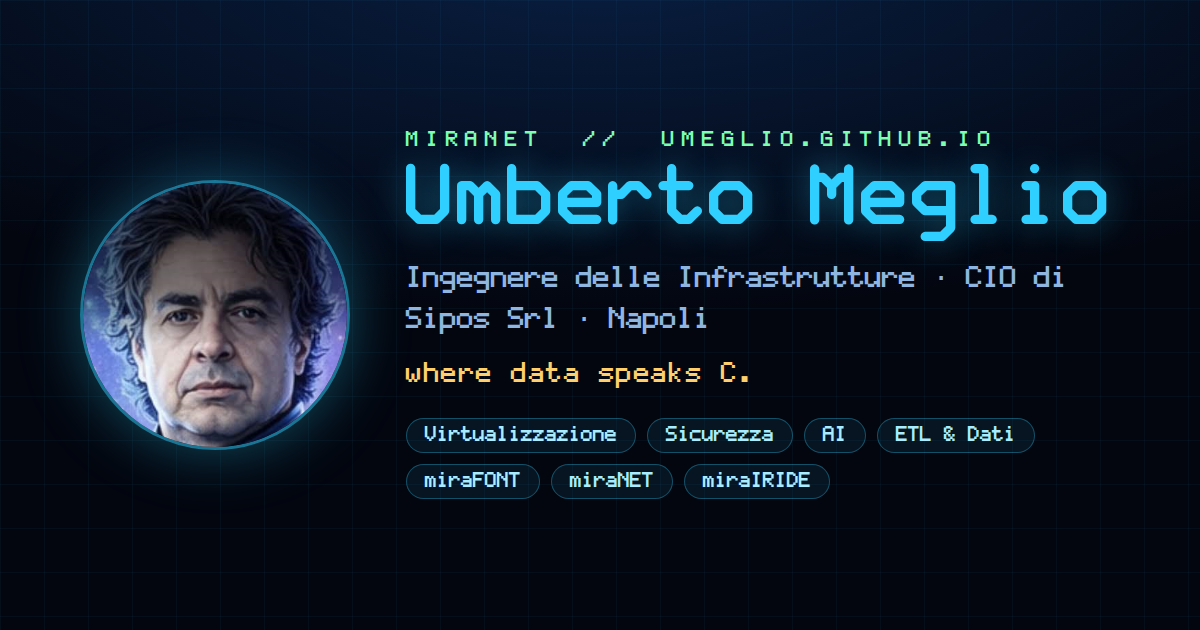
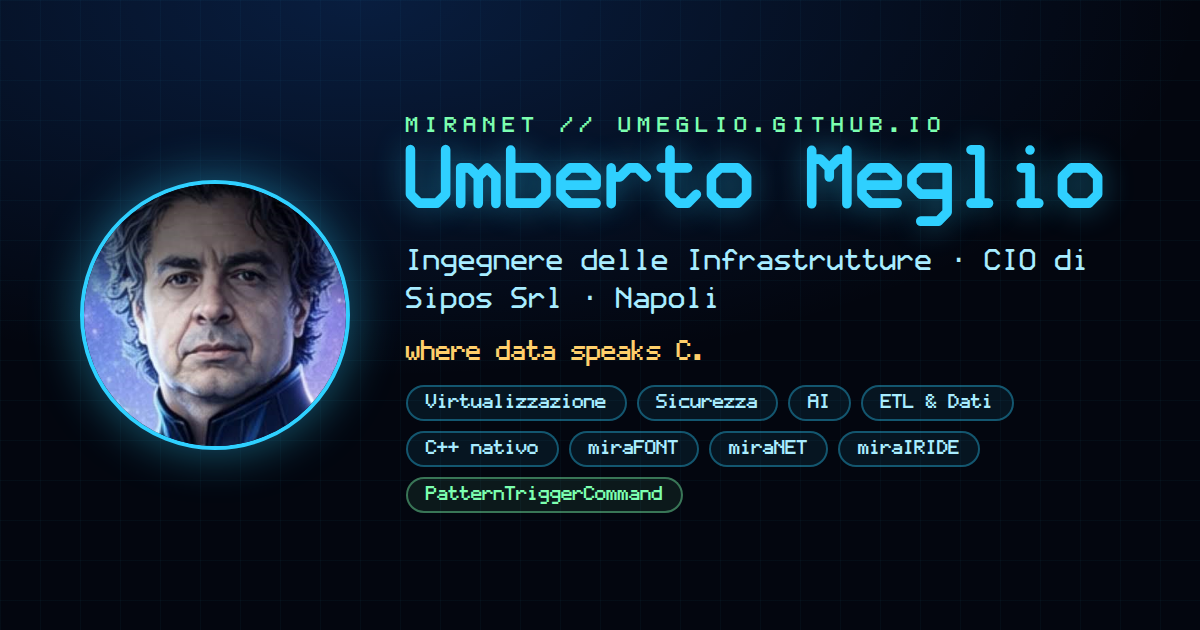
PatternTriggerCommand: badge Sito, tag C++ nativo, copertina e documentazione
- Scheda PatternTriggerCommand in index.html e index_en.html: display
  OLED, descrizione aggiornata (v3.1), tag "C++ nativo / Win32 API /
  Zero dipendenze" e link "Sito ->" alla pagina dedicata, come per
  Monet_OleDB; JSON-LD con url del progetto.
- Competenze: nuova voce "C++ nativo / Win32 API".
- og-image.png rigenerata con i chip "C++ nativo" e
  "PatternTriggerCommand".
- README.md / README_en.md: sezione dei progetti con pagina dedicata;
  docs UTILIZZO.md / USAGE.md: scheda progetto aggiornata e regole
  per le pagine bilingui; sitemap con date aggiornate.

Claude-Session: https://claude.ai/code/session_019nnJt19A3zJXvW7a49t5Mc

diff --git a/index.html b/index.html
@@ -1431,7 +1431,7 @@
           "@type": "SoftwareSourceCode",
           "@id": "https://github.com/umeglio/PatternTriggerCommand#project",
           "name": "PatternTriggerCommand",
-          "description": "Servizio Windows in C++ che sorveglia cartelle e file e scatena comandi sulla base di pattern configurabili.",
+          "description": "Servizio Windows in C++ nativo che sorveglia cartelle con ReadDirectoryChangesW, riconosce i file con pattern regex ed esegue comandi; schedulatore parametrico, dashboard web con statistiche in miraFONT e impostazioni applicabili a caldo.",
           "codeRepository": "https://github.com/umeglio/PatternTriggerCommand",
           "author": {
             "@id": "https://umeglio.github.io/#umberto-meglio"
@@ -1439,7 +1439,8 @@
           "isPartOf": {
             "@id": "https://umeglio.github.io/#webpage"
           },
-          "programmingLanguage": "C++"
+          "programmingLanguage": "C++",
+          "url": "https://umeglio.github.io/PatternTriggerCommand/"
         },
         {
           "@type": "SoftwareSourceCode",
@@ -1644,6 +1645,7 @@
                     <div class="skill-item"><div class="skill-name"><span>Visual FoxPro</span><span>95%</span></div><div class="skill-bar"><div class="skill-progress" style="width: 95%;"></div></div></div>
                     <div class="skill-item"><div class="skill-name"><span>Delphi</span><span>85%</span></div><div class="skill-bar"><div class="skill-progress" style="width: 85%;"></div></div></div>
                     <div class="skill-item"><div class="skill-name"><span>C++ / wxWidgets</span><span>90%</span></div><div class="skill-bar"><div class="skill-progress" style="width: 90%;"></div></div></div>
+                    <div class="skill-item"><div class="skill-name"><span>C++ nativo / Win32 API</span><span>90%</span></div><div class="skill-bar"><div class="skill-progress" style="width: 90%;"></div></div></div>
                     <div class="skill-item"><div class="skill-name"><span>ETL (Extract, Transform, Load)</span><span>90%</span></div><div class="skill-bar"><div class="skill-progress" style="width: 90%;"></div></div></div>
                 </div>
                 <div class="skill-category card">
@@ -1832,18 +1834,23 @@
                 <div class="project-card card">
                     <div class="project-header">
                         <h3>PatternTriggerCommand</h3>
-                        <span class="project-type">Servizio Windows &middot; C++</span>
+                        <span class="project-type">Servizio Windows &middot; C++ nativo</span>
                     </div>
                     <div class="project-info">
-                        <p>Servizio Windows enterprise-grade per l'automazione di workflow basati su file. Monitora cartelle multiple, rileva file tramite pattern regex ed esegue automaticamente comandi personalizzati. Include web dashboard.</p>
+                        <div class="oled cyan"><span class="led"></span><span class="oled-view"><span class="oled-track">WATCH C:\INVOICES :: MATCH ^INVOICE.*\.PDF$ :: RUN PROCESS_INVOICE.BAT :: EXIT 0 :: DASHBOARD :8080 :: 3 TASKS SCHEDULED :: &nbsp;WATCH C:\INVOICES :: MATCH ^INVOICE.*\.PDF$ :: RUN PROCESS_INVOICE.BAT :: EXIT 0 :: DASHBOARD :8080 :: 3 TASKS SCHEDULED :: &nbsp;</span></span></div>
+                        <p>Servizio Windows in C++ nativo per l'automazione dei workflow basati su file: sorveglia pi&ugrave; cartelle con ReadDirectoryChangesW, riconosce i file con pattern regex ed esegue i comandi associati. Schedulatore parametrico, dashboard web con statistiche composta in miraFONT e impostazioni applicabili a caldo, in un unico eseguibile senza dipendenze.</p>
                         <div class="project-tags">
-                            <span class="tag">C++</span>
-                            <span class="tag">Automazione</span>
+                            <span class="tag">C++ nativo</span>
+                            <span class="tag">Win32 API</span>
+                            <span class="tag">Zero dipendenze</span>
                             <span class="tag">Regex</span>
+                            <span class="tag">Schedulatore</span>
                             <span class="tag">Web Dashboard</span>
                         </div>
                         <div class="project-links">
                             <a href="https://github.com/umeglio/PatternTriggerCommand" target="_blank">GitHub &rarr;</a>
+                            &nbsp;&nbsp;
+                            <a href="https://umeglio.github.io/PatternTriggerCommand/" target="_blank">Sito &rarr;</a>
                         </div>
                     </div>
                 </div>

diff --git a/index_en.html b/index_en.html
@@ -1431,7 +1431,7 @@
           "@type": "SoftwareSourceCode",
           "@id": "https://github.com/umeglio/PatternTriggerCommand#project",
           "name": "PatternTriggerCommand",
-          "description": "A Windows service in C++ that watches folders and files and triggers commands based on configurable patterns.",
+          "description": "Native C++ Windows service that watches folders with ReadDirectoryChangesW, recognises files with regex patterns and runs commands; parametric scheduler, web dashboard with statistics set in miraFONT and hot-reloadable settings.",
           "codeRepository": "https://github.com/umeglio/PatternTriggerCommand",
           "author": {
             "@id": "https://umeglio.github.io/#umberto-meglio"
@@ -1439,7 +1439,8 @@
           "isPartOf": {
             "@id": "https://umeglio.github.io/index_en.html#webpage"
           },
-          "programmingLanguage": "C++"
+          "programmingLanguage": "C++",
+          "url": "https://umeglio.github.io/PatternTriggerCommand/"
         },
         {
           "@type": "SoftwareSourceCode",
@@ -1644,6 +1645,7 @@
                     <div class="skill-item"><div class="skill-name"><span>Visual FoxPro</span><span>95%</span></div><div class="skill-bar"><div class="skill-progress" style="width: 95%;"></div></div></div>
                     <div class="skill-item"><div class="skill-name"><span>Delphi</span><span>85%</span></div><div class="skill-bar"><div class="skill-progress" style="width: 85%;"></div></div></div>
                     <div class="skill-item"><div class="skill-name"><span>C++ / wxWidgets</span><span>90%</span></div><div class="skill-bar"><div class="skill-progress" style="width: 90%;"></div></div></div>
+                    <div class="skill-item"><div class="skill-name"><span>Native C++ / Win32 API</span><span>90%</span></div><div class="skill-bar"><div class="skill-progress" style="width: 90%;"></div></div></div>
                     <div class="skill-item"><div class="skill-name"><span>ETL (Extract, Transform, Load)</span><span>90%</span></div><div class="skill-bar"><div class="skill-progress" style="width: 90%;"></div></div></div>
                 </div>
                 <div class="skill-category card">
@@ -1832,18 +1834,23 @@
                 <div class="project-card card">
                     <div class="project-header">
                         <h3>PatternTriggerCommand</h3>
-                        <span class="project-type">Windows Service &middot; C++</span>
+                        <span class="project-type">Windows Service &middot; Native C++</span>
                     </div>
                     <div class="project-info">
-                        <p>Enterprise-grade Windows service for file-based workflow automation. Monitors multiple folders, detects files via regex patterns and automatically executes custom commands. Includes web dashboard.</p>
+                        <div class="oled cyan"><span class="led"></span><span class="oled-view"><span class="oled-track">WATCH C:\INVOICES :: MATCH ^INVOICE.*\.PDF$ :: RUN PROCESS_INVOICE.BAT :: EXIT 0 :: DASHBOARD :8080 :: 3 TASKS SCHEDULED :: &nbsp;WATCH C:\INVOICES :: MATCH ^INVOICE.*\.PDF$ :: RUN PROCESS_INVOICE.BAT :: EXIT 0 :: DASHBOARD :8080 :: 3 TASKS SCHEDULED :: &nbsp;</span></span></div>
+                        <p>Native C++ Windows service for file-driven workflow automation: watches multiple folders with ReadDirectoryChangesW, recognises files with regex patterns and runs the associated commands. Parametric scheduler, web dashboard with statistics set in miraFONT and hot-reloadable settings, in a single dependency-free executable.</p>
                         <div class="project-tags">
-                            <span class="tag">C++</span>
-                            <span class="tag">Automation</span>
+                            <span class="tag">Native C++</span>
+                            <span class="tag">Win32 API</span>
+                            <span class="tag">Zero dependencies</span>
                             <span class="tag">Regex</span>
+                            <span class="tag">Scheduler</span>
                             <span class="tag">Web Dashboard</span>
                         </div>
                         <div class="project-links">
                             <a href="https://github.com/umeglio/PatternTriggerCommand" target="_blank">GitHub &rarr;</a>
+                            &nbsp;&nbsp;
+                            <a href="https://umeglio.github.io/PatternTriggerCommand/" target="_blank">Website &rarr;</a>
                         </div>
                     </div>
                 </div>

diff --git a/README.md b/README.md
@@ -38,7 +38,7 @@ Il sito è organizzato nelle seguenti sezioni:
 2. **Chi Sono**: Breve biografia professionale e informazioni personali
 3. **Competenze**: Visualizzazione delle competenze tecniche con barre di progresso
 4. **Esperienza**: Timeline delle esperienze professionali
-5. **Progetti**: Showcase dei principali progetti realizzati
+5. **Progetti**: Showcase dei principali progetti realizzati, ciascuno con il link a GitHub e, quando esiste, alla pagina dedicata
 6. **Pubblicazioni**: I lavori depositati su Zenodo con DOI citabile
 7. **miraFONT**: Il carattere tipografico originale che compone il sito
 8. **Contatti**: Informazioni di contatto e modulo per comunicazioni
@@ -69,6 +69,17 @@ Per modifiche locali e sviluppo, consulta la [Guida di Utilizzo](docs/it/UTILIZZ
 ## Contributi
 
 I contributi sono benvenuti! Per dettagli, consulta [CONTRIBUIRE.md](docs/it/CONTRIBUIRE.md).
+
+## Progetti con pagina dedicata
+
+Alcuni progetti hanno una pagina propria, pubblicata da GitHub Pages dal repository del progetto (cartella `docs/`) e richiamata dal badge **Sito &rarr;** nella sezione *Progetti*. Le pagine condividono la grafica del sito (tema miraNET e miraFONT) e scelgono italiano o inglese dalla lingua del browser, ricordando la scelta del visitatore.
+
+| Progetto | Pagina | Documentazione |
+| --- | --- | --- |
+| **PatternTriggerCommand** — servizio Windows in C++ nativo per l'automazione guidata dai file | [umeglio.github.io/PatternTriggerCommand](https://umeglio.github.io/PatternTriggerCommand/) | [README.it.md](https://github.com/umeglio/PatternTriggerCommand/blob/main/README.it.md) &middot; [README.md](https://github.com/umeglio/PatternTriggerCommand/blob/main/README.md) |
+| **Monet_OleDB** — provider OLE DB in ANSI C tra SQL Server e MonetDB | [umeglio.github.io/Monet_OleDB](https://umeglio.github.io/Monet_OleDB/) | [README.it.md](https://github.com/umeglio/Monet_OleDB/blob/main/README.it.md) &middot; [README.md](https://github.com/umeglio/Monet_OleDB/blob/main/README.md) |
+| **FTP Sync Service** — servizio Windows in C++ per la sincronizzazione con server FTP | [umeglio.github.io/ftp-sync-service](https://umeglio.github.io/ftp-sync-service/) | [README](https://github.com/umeglio/ftp-sync-service) |
+| **decibel.js** — fonometro dal browser | [umeglio.github.io/decibel.js](https://umeglio.github.io/decibel.js/) | [README](https://github.com/umeglio/decibel.js) |
 
 ## Pubblicazioni
 

diff --git a/README_en.md b/README_en.md
@@ -39,7 +39,7 @@ The website is organized in the following sections:
 2. **About Me**: Brief professional biography and personal information
 3. **Skills**: Display of technical skills with progress bars
 4. **Experience**: Timeline of professional experiences
-5. **Projects**: Showcase of main completed projects
+5. **Projects**: Showcase of main completed projects, each linking to GitHub and, where available, to its dedicated page
 6. **Publications**: The works deposited on Zenodo with a citable DOI
 7. **miraFONT**: The original typeface the whole site is set in
 8. **Contact**: Contact information and messaging form
@@ -70,6 +70,17 @@ For local modifications and development, see the [Usage Guide](docs/en/USAGE.md)
 ## Contributing
 
 Contributions are welcome! For details, see [CONTRIBUTING.md](docs/en/CONTRIBUTING.md).
+
+## Projects with a dedicated page
+
+Some projects have their own page, published by GitHub Pages from the project repository (`docs/` folder) and linked by the **Website &rarr;** badge in the *Projects* section. The pages share the site's look (miraNET theme and miraFONT) and pick Italian or English from the browser language, remembering the visitor's choice.
+
+| Project | Page | Documentation |
+| --- | --- | --- |
+| **PatternTriggerCommand** — native C++ Windows service for file-driven automation | [umeglio.github.io/PatternTriggerCommand](https://umeglio.github.io/PatternTriggerCommand/) | [README.md](https://github.com/umeglio/PatternTriggerCommand/blob/main/README.md) &middot; [README.it.md](https://github.com/umeglio/PatternTriggerCommand/blob/main/README.it.md) |
+| **Monet_OleDB** — ANSI C OLE DB provider between SQL Server and MonetDB | [umeglio.github.io/Monet_OleDB](https://umeglio.github.io/Monet_OleDB/) | [README.md](https://github.com/umeglio/Monet_OleDB/blob/main/README.md) &middot; [README.it.md](https://github.com/umeglio/Monet_OleDB/blob/main/README.it.md) |
+| **FTP Sync Service** — C++ Windows service for FTP synchronisation | [umeglio.github.io/ftp-sync-service](https://umeglio.github.io/ftp-sync-service/) | [README](https://github.com/umeglio/ftp-sync-service) |
+| **decibel.js** — sound level meter in the browser | [umeglio.github.io/decibel.js](https://umeglio.github.io/decibel.js/) | [README](https://github.com/umeglio/decibel.js) |
 
 ## Publications
 

diff --git a/docs/it/UTILIZZO.md b/docs/it/UTILIZZO.md
@@ -58,12 +58,24 @@ La timeline dell'esperienza si trova nella sezione `#experience`. Aggiungi nuove
 #### 5. Progetti
 I progetti sono visualizzati nella sezione `#projects`. Per aggiungere un nuovo progetto:
 ```html
-<div class="project-card">
-    <h3>Nome Progetto</h3>
-    <p>Descrizione del progetto</p>
-    <a href="link-al-progetto" class="project-link">Vedi Progetto</a>
+<div class="project-card card">
+    <div class="project-header">
+        <h3>Nome Progetto</h3>
+        <span class="project-type">Tipo &middot; Linguaggio</span>
+    </div>
+    <div class="project-info">
+        <p>Descrizione del progetto</p>
+        <div class="project-tags"><span class="tag">C++ nativo</span></div>
+        <div class="project-links">
+            <a href="https://github.com/umeglio/NomeProgetto" target="_blank">GitHub &rarr;</a>
+            &nbsp;&nbsp;
+            <a href="https://umeglio.github.io/NomeProgetto/" target="_blank">Sito &rarr;</a>
+        </div>
+    </div>
 </div>
 ```
+
+Il link **Sito &rarr;** punta alla pagina dedicata del progetto, pubblicata da GitHub Pages dal repository del progetto stesso (cartella `docs/`, sorgente "GitHub Actions"), come per Monet_OleDB e PatternTriggerCommand. Le pagine usano lo stesso tema miraNET e miraFONT del sito e sono bilingui: i testi sono duplicati in `<span class="en">` e `<span class="it">`, la lingua viene scelta dal browser (`navigator.language`) e la preferenza del visitatore e' salvata in `localStorage`. Ricordarsi di aggiornare anche `index_en.html` (con **Website &rarr;**) e il blocco JSON-LD (`"url"` del progetto).
 
 #### 6. Informazioni di Contatto
 Modifica la sezione `#contact` per aggiornare i tuoi dettagli di contatto.

diff --git a/docs/en/USAGE.md b/docs/en/USAGE.md
@@ -58,12 +58,24 @@ The experience timeline is in the `#experience` section. Add new entries in this
 #### 5. Projects
 Projects are displayed in the `#projects` section. To add a new project:
 ```html
-<div class="project-card">
-    <h3>Project Name</h3>
-    <p>Project description</p>
-    <a href="project-link" class="project-link">View Project</a>
+<div class="project-card card">
+    <div class="project-header">
+        <h3>Project Name</h3>
+        <span class="project-type">Type &middot; Language</span>
+    </div>
+    <div class="project-info">
+        <p>Project description</p>
+        <div class="project-tags"><span class="tag">Native C++</span></div>
+        <div class="project-links">
+            <a href="https://github.com/umeglio/ProjectName" target="_blank">GitHub &rarr;</a>
+            &nbsp;&nbsp;
+            <a href="https://umeglio.github.io/ProjectName/" target="_blank">Website &rarr;</a>
+        </div>
+    </div>
 </div>
 ```
+
+The **Website &rarr;** link points to the project's dedicated page, published by GitHub Pages from the project repository itself (`docs/` folder, "GitHub Actions" source), as for Monet_OleDB and PatternTriggerCommand. The pages use the same miraNET theme and miraFONT as the site and are bilingual: texts are duplicated in `<span class="en">` and `<span class="it">`, the language is picked from the browser (`navigator.language`) and the visitor's preference is stored in `localStorage`. Remember to update `index.html` too (with **Sito &rarr;**) and the JSON-LD block (project `"url"`).
 
 #### 6. Contact Information
 Modify the `#contact` section to update your contact details.
